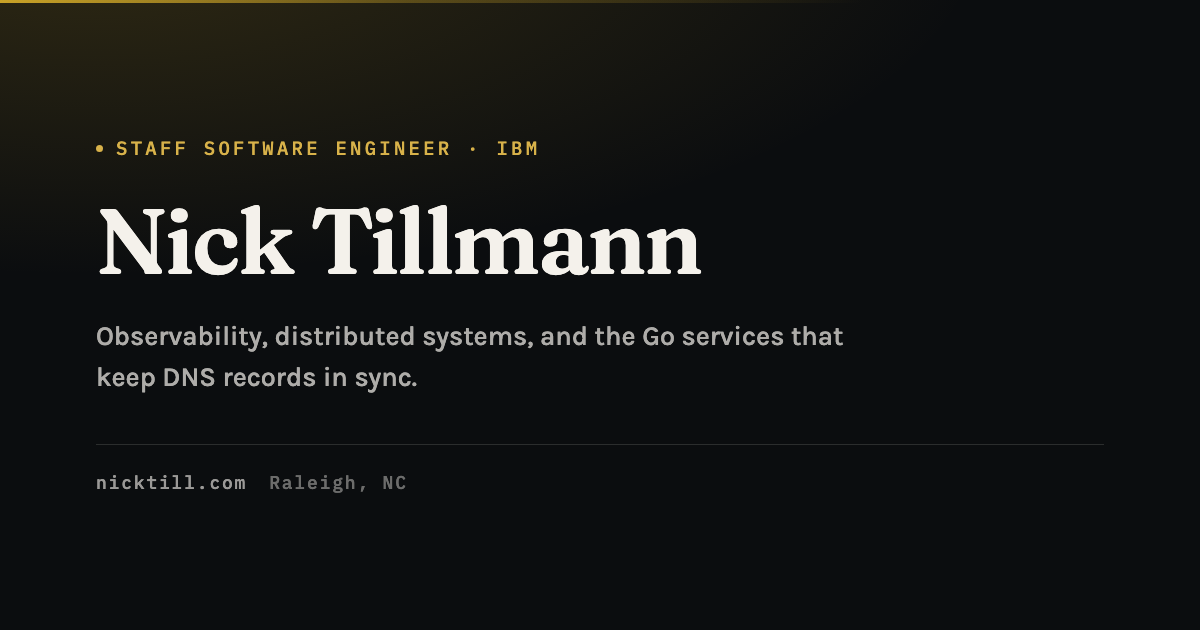
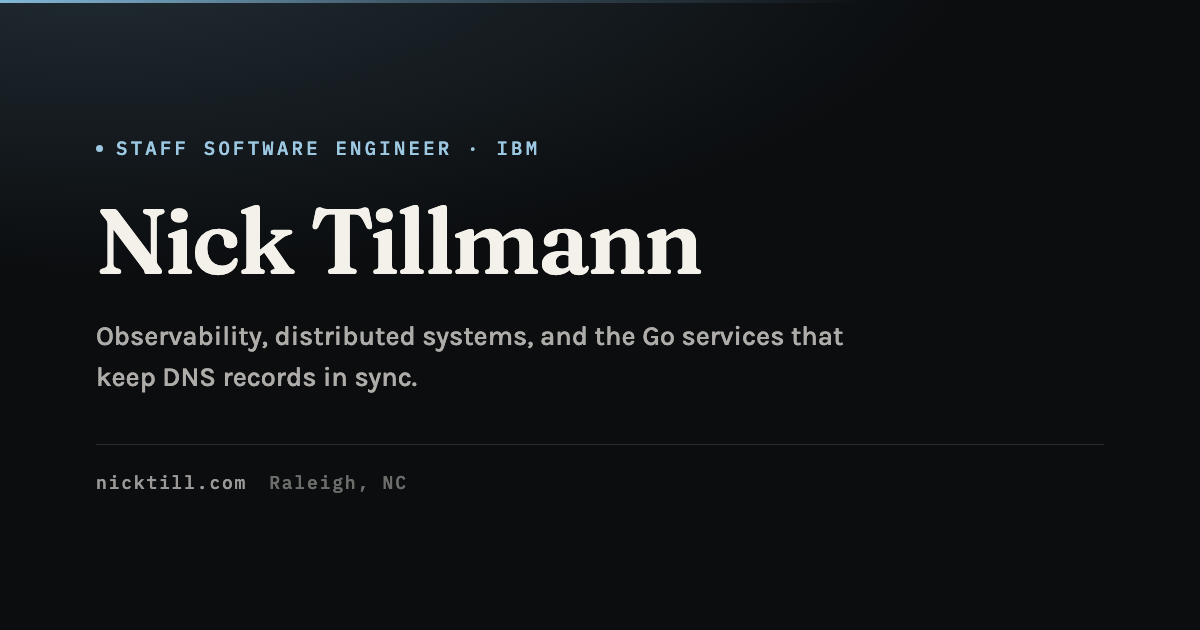
Retune the social card to the blue the site now opens on

Changed region(s): [[0.0, 0.0, 0.6167, 0.0603], [0.0925, 0.2111, 0.37, 0.2413], [0.4008, 0.2111, 0.4625, 0.2413]]

diff --git a/tools/og-card.html b/tools/og-card.html
@@ -13,19 +13,19 @@ body {
 }
 body::before {
   content: ""; position: absolute; inset: 0;
-  background: radial-gradient(120% 90% at 8% -12%, rgba(201,162,39,0.20) 0%, rgba(201,162,39,0) 62%);
+  background: radial-gradient(120% 90% at 8% -12%, rgba(131,184,216,0.20) 0%, rgba(131,184,216,0) 62%);
 }
 body::after {
   content: ""; position: absolute; top: 0; left: 0; right: 0; height: 3px;
-  background: linear-gradient(90deg, #C9A227 0%, rgba(201,162,39,0.35) 34%, rgba(201,162,39,0) 72%);
+  background: linear-gradient(90deg, #83B8D8 0%, rgba(131,184,216,0.35) 34%, rgba(131,184,216,0) 72%);
 }
 .inner { position: relative; }
 .eyebrow {
   font-family: 'Pm', monospace; font-size: 19px; letter-spacing: 0.17em;
-  color: #D8B24A; text-transform: uppercase;
+  color: #9CC8E2; text-transform: uppercase;
   display: flex; align-items: center; gap: 13px;
 }
-.eyebrow i { width: 7px; height: 7px; border-radius: 50%; background: #D8B24A; display: block; }
+.eyebrow i { width: 7px; height: 7px; border-radius: 50%; background: #9CC8E2; display: block; }
 h1 {
   font-family: 'Fr', Georgia, serif; font-size: 92px; line-height: 1.02;
   font-variation-settings: 'opsz' 144, 'wght' 480;
